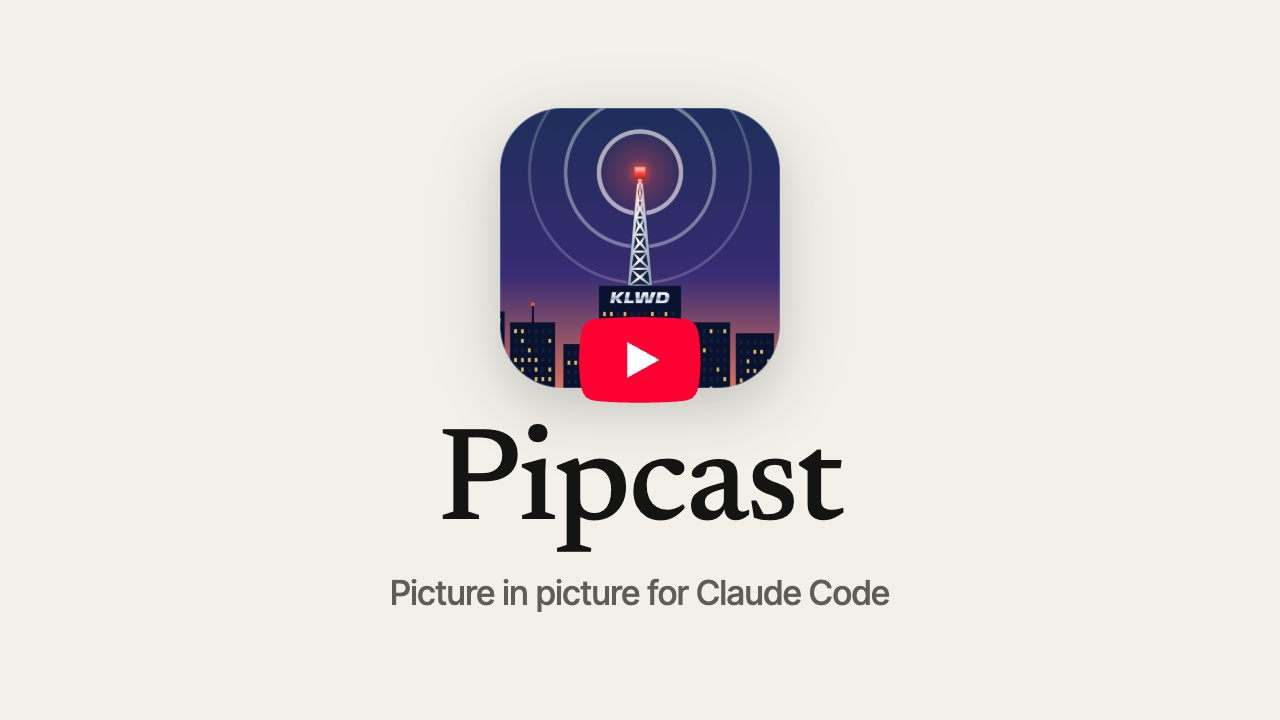
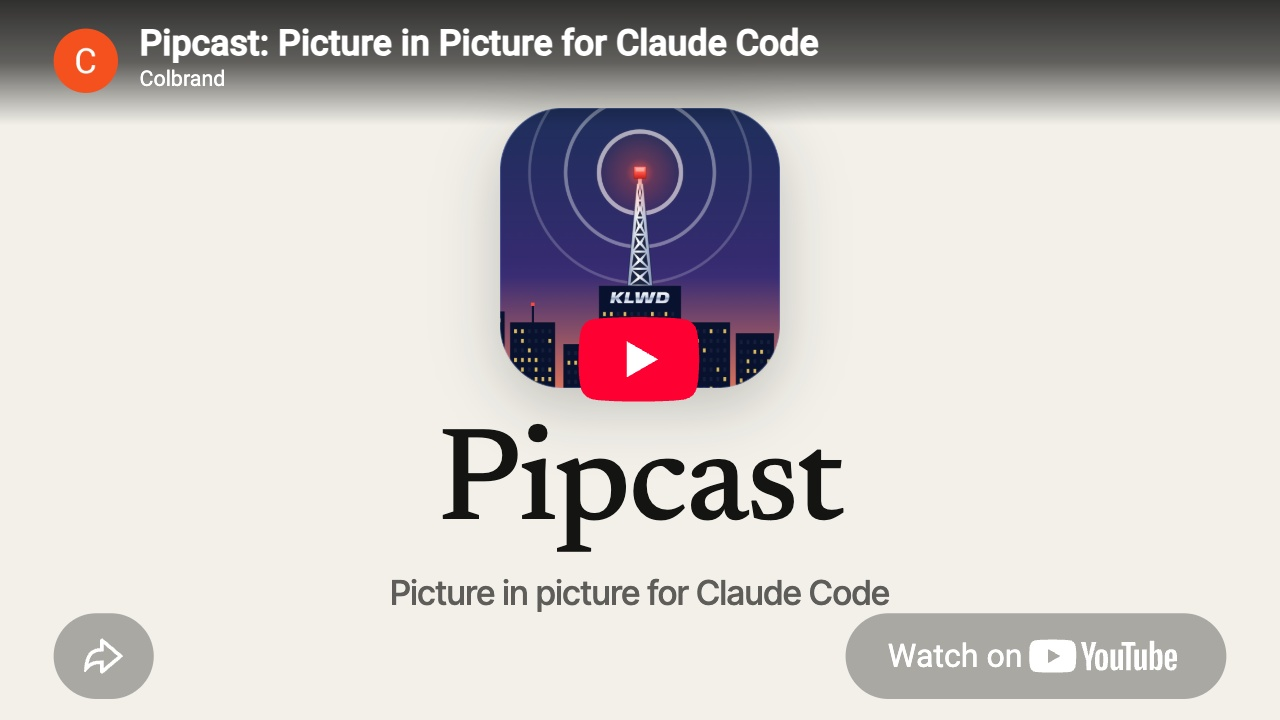
[FEAT]: the README's link to the video looks like YouTube's embedded player, with the player's own title bar, play button and buttons

diff --git a/video/src/thumbnail/YouTubeOverlay.tsx b/video/src/thumbnail/YouTubeOverlay.tsx
@@ -1,0 +1,95 @@
+// YouTube's embedded player as it shows a video before it plays, drawn over
+// the thumbnail for the README, so the picture reads as a YouTube video at a
+// glance: the gradient and the title bar along the top, the play button in the
+// middle, and the share and Watch on YouTube buttons along the bottom, as a
+// visitor who isn't signed in sees them. The sizes, colours, fonts and icons
+// are the player's own, read from youtube.com/embed at 716 CSS pixels wide, the
+// width the README shows the picture at, and the whole layer is scaled to the
+// picture it covers.
+//
+// The title, the channel and the channel's picture are the video's on YouTube.
+// channel-avatar.png is the channel's picture, from
+// https://yt3.ggpht.com/ytc/AIdro_kh_x36_gLbuWEiCLxlpuWeem1FwkAG6L4N4muHqHo=s176-c-k-c0x00ffffff-no-rj
+// converted to PNG.
+import { loadFont as loadRoboto } from '@remotion/google-fonts/Roboto'
+import { Img } from 'remotion'
+import avatar from './channel-avatar.png'
+
+/** The player loads Roboto in these two weights only, so the title's bold is drawn from 500, as in the player */
+const ROBOTO = loadRoboto('normal', { weights: ['400', '500'], subsets: ['latin'] }).fontFamily
+
+/** The width README.md shows the picture at, in CSS pixels: its img's width="716". Change the two together. */
+export const README_W = 716
+
+const TITLE = 'Pipcast: Picture in Picture for Claude Code'
+const CHANNEL = 'Colbrand'
+
+const WHITE = '#fff'
+/** The play button's red */
+const RED = '#ff0033'
+/** The shade behind the share and Watch on YouTube buttons */
+const SHADE = 'rgba(0, 0, 0, 0.3)'
+
+const PLAY =
+  'M63 14.87a7.885 7.885 0 00-5.56-5.56C52.54 8 32.88 8 32.88 8S13.23 8 8.32 9.31c-2.7.72-4.83 2.85-5.56 5.56C1.45 19.77 1.45 30 1.45 30s0 10.23 1.31 15.13c.72 2.7 2.85 4.83 5.56 5.56C13.23 52 32.88 52 32.88 52s19.66 0 24.56-1.31c2.7-.72 4.83-2.85 5.56-5.56C64.31 40.23 64.31 30 64.31 30s0-10.23-1.31-15.13z'
+const PLAY_ARROW = 'M26.6 39.43L42.93 30 26.6 20.57z'
+const SHARE =
+  'M10 3.158V7.51c-5.428.223-8.27 3.75-8.875 11.199-.04.487-.07.975-.09 1.464l-.014.395c-.014.473.578.684.88.32.302-.368.61-.73.925-1.086l.244-.273c1.79-1.967 3-2.677 4.93-2.917a18.011 18.011 0 012-.112v4.346a1 1 0 001.646.763l9.805-8.297 1.55-1.31-1.55-1.31-9.805-8.297A1 1 0 0010 3.158Zm2 6.27v.002-4.116l7.904 6.688L12 18.689v-4.212l-2.023.024c-1.935.022-3.587.17-5.197 1.024a9 9 0 00-1.348.893c.355-1.947.916-3.39 1.63-4.425 1.062-1.541 2.607-2.385 5.02-2.485L12 9.428Z'
+const LOGO =
+  'M 16.687006,0.99998524 C 13.551069,1.0327972 7.0245114,1.1624852 4.9995126,1.6874852 c -1.4999991,0.4 -2.5999984,1.6 -2.9999982,3 -0.6999995,2.7 -0.6874995,8.3124998 -0.6874995,8.3124998 0,0 -0.0125,5.6125 0.6874995,8.3125 0.3999998,1.5 1.5999991,2.6 2.9999982,3 2.6999984,0.7 13.4062424,0.6875 13.4062424,0.6875 0,0 10.706243,0.0125 13.406241,-0.6875 1.5,-0.4 2.599999,-1.6 2.999999,-3 0.699999,-2.7 0.687499,-8.3125 0.687499,-8.3125 0,0 0.1125,-5.6124998 -0.687499,-8.3124998 -0.4,-1.5 -1.599999,-2.6 -2.999999,-3 C 29.111998,0.98748524 18.405755,0.99998524 18.405755,0.99998524 c 0,0 -0.673437,-0.010938 -1.718749,0 z m 72.218706,0.90624996 0,21.2812498 2.781248,0 0.3125,-1.375 0.09375,0 c 0.3,0.5 0.71875,0.8875 1.218749,1.1875 0.5,0.3 1.0875,0.40625 1.687499,0.40625 1.1,0 1.999999,-0.49375 2.499999,-1.59375 0.5,-1.1 0.812499,-2.70625 0.812499,-4.90625 l 0,-2.40625 c 0,-1.6 -0.1125,-2.90625 -0.312499,-3.90625 -0.2,-0.8999999 -0.5,-1.5937499 -1,-2.0937499 -0.5,-0.4 -1.106249,-0.5937499 -1.906249,-0.5937499 -0.599999,0 -1.187499,0.1999999 -1.687499,0.4999999 -0.499999,0.3 -1.018749,0.80625 -1.218749,1.40625 l 0,-7.9062499 -3.281248,0 z m -49.99997,0.78125 3.906248,13.9062498 0.1875,6.71875 3.312498,0 0,-6.71875 3.874997,-13.9062498 -3.374998,0 -1.406249,6.3124999 c -0.4,1.8999999 -0.712499,3.1999999 -0.812499,3.9999999 l -0.09375,0 c -0.2,-1.1 -0.5125,-2.4 -0.8125,-3.9999999 l -1.374999,-6.3124999 -3.406248,0 z m 29.593732,0 0,2.71875 3.406248,0 0,17.9062498 3.281248,0 0,-17.9062498 3.406248,0 c 0,0 0.0062,-2.71875 -0.09375,-2.71875 l -9.999994,0 z m -53.499967,5.125 8.906244,5.1874998 -8.906244,5.09375 0,-10.2812498 z m 89.406193,0.09375 c -1.7,0 -2.89375,0.5937499 -3.59375,1.5937499 -0.69999,0.9999999 -0.999995,2.6062499 -0.999995,4.9062499 l 0,2.59375 c 0,2.2 0.300005,3.90625 0.999995,4.90625 0.7,1.1 1.8,1.59375 3.5,1.59375 1.4,0 2.3875,-0.3 3.1875,-1 0.7,-0.7 1.09375,-1.69375 1.09375,-3.09375 l 0,-0.5 -2.90625,-0.21875 c 0,1 -0.0812,1.6 -0.28125,2 -0.1,0.4 -0.5,0.625 -1,0.625 -0.3,0 -0.6125,-0.1125 -0.8125,-0.3125 -0.2,-0.3 -0.30625,-0.59375 -0.40625,-1.09375 -0.1,-0.5 -0.0937,-1.21875 -0.0937,-2.21875 l 0,-0.78125 5.71875,-0.09375 0,-2.625 c 0,-1.6 -0.10625,-2.7875 -0.40625,-3.6875 -0.2,-0.8999999 -0.7125,-1.5999999 -1.3125,-1.9999999 -0.7,-0.4 -1.4875,-0.5937499 -2.6875,-0.5937499 z m -50.499967,0.09375 c -1.099999,0 -2.018749,0.1874999 -2.718748,0.6874999 -0.7,0.4 -1.2,1.125 -1.499999,2.1249999 -0.3,1 -0.5,2.275 -0.5,3.875 l 0,2.21875 c 0,1.5 0.10625,2.78125 0.40625,3.78125 0.2,0.9 0.706249,1.625 1.406249,2.125 0.699999,0.5 1.712499,0.68125 2.812498,0.78125 1.199999,0 2.081249,-0.2875 2.781249,-0.6875 0.699999,-0.4 1.099999,-1.09375 1.499999,-2.09375 0.399999,-1 0.499999,-2.30625 0.499999,-3.90625 l 0,-2.21875 c 0,-1.6 -0.2,-2.875 -0.499999,-3.875 -0.3,-0.8999999 -0.8,-1.6249999 -1.499999,-2.1249999 -0.7,-0.5 -1.5875,-0.6874999 -2.687499,-0.6874999 z m 12.187493,0.09375 0,11.9062498 c -0.1,0.3 -0.29375,0.4875 -0.59375,0.6875 -0.2,0.2 -0.5125,0.3125 -0.812499,0.3125 -0.3,0 -0.5875,-0.10625 -0.6875,-0.40625 -0.1,-0.3 -0.1875,-0.70625 -0.1875,-1.40625 l 0,-10.9999998 -3.406248,0 0,11.2187498 c 0,1.4 0.1875,2.39375 0.6875,3.09375 0.499999,0.7 1.218749,1 2.218748,1 1.4,0 2.487499,-0.69375 3.187499,-2.09375 l 0.09375,0 0.3125,1.78125 2.593749,0 0,-14.9999998 c 0,0 -3.406248,0.0062 -3.406248,-0.09375 z m 17.312489,0 0,11.9062498 c -0.1,0.3 -0.293749,0.4875 -0.593749,0.6875 -0.2,0.2 -0.5125,0.3125 -0.8125,0.3125 -0.3,0 -0.587499,-0.10625 -0.687499,-0.40625 -0.1,-0.3 -0.21875,-0.70625 -0.21875,-1.40625 l 0,-10.9999998 -3.406248,0 0,11.2187498 c 0,1.4 0.21875,2.39375 0.718749,3.09375 0.5,0.7 1.1875,1 2.187499,1 1.399999,0 2.518749,-0.69375 3.218748,-2.09375 l 0.09375,0 0.28125,1.78125 2.624998,0 0,-14.9999998 c 0,0 -3.406248,0.0062 -3.406248,-0.09375 z m 20.906235,2.0937498 c 0.4,0 0.58125,0.1125 0.78125,0.3125 0.2,0.3 0.30625,0.59375 0.40625,1.09375 0.1,0.5 0.0937,1.21875 0.0937,2.21875 l 0,1.09375 -2.5,0 0,-1.09375 c 0,-1 -0.006,-1.71875 0.0937,-2.21875 0,-0.4 0.1125,-0.8 0.3125,-1 0.2,-0.3 0.5125,-0.40625 0.8125,-0.40625 z m -50.499967,0.125 c 0.5,0 0.8,0.1875 1,0.6875 0.199999,0.5 0.281249,1.30625 0.281249,2.40625 l 0,4.6875 c 0,1.1 -0.08125,1.90625 -0.281249,2.40625 -0.2,0.5 -0.5,0.6875 -1,0.6875 -0.5,0 -0.799999,-0.1875 -0.999999,-0.6875 -0.2,-0.5 -0.3125,-1.30625 -0.3125,-2.40625 l 0,-4.6875 c 0,-1.1 0.1125,-1.90625 0.3125,-2.40625 0.2,-0.5 0.499999,-0.6875 0.999999,-0.6875 z m 39.687476,0.09375 c 0.3,0 0.6125,0.10625 0.8125,0.40625 0.2,0.3 0.275,0.675 0.375,1.375 0.1,0.6 0.124999,1.51875 0.124999,2.71875 l 0.09375,1.90625 c 0,1.1 0.0062,1.99375 -0.09375,2.59375 -0.1,0.6 -0.199999,1.08125 -0.499999,1.28125 -0.2,0.3 -0.50625,0.40625 -0.90625,0.40625 -0.3,0 -0.512499,-0.0875 -0.812499,-0.1875 -0.2,-0.1 -0.39375,-0.29375 -0.59375,-0.59375 l 0,-8.5 c 0.1,-0.4 0.29375,-0.7 0.59375,-1 0.3,-0.3 0.606249,-0.40625 0.906249,-0.40625 z'
+
+/** YouTube's player over a picture of the given size, which it covers */
+export function YouTubeOverlay({ width, height }: { width: number; height: number }) {
+  const scale = width / README_W
+  const playerH = height / scale
+  return (
+    <div
+      style={{
+        position: 'absolute',
+        left: 0,
+        top: 0,
+        width: README_W,
+        height: playerH,
+        transform: `scale(${scale})`,
+        transformOrigin: '0 0',
+        fontFamily: ROBOTO,
+        color: WHITE,
+      }}
+    >
+      <div
+        style={{
+          position: 'absolute',
+          left: 0,
+          top: 0,
+          width: README_W,
+          height: 70,
+          background: 'linear-gradient(rgba(0, 0, 0, 0.8), rgba(0, 0, 0, 0.6), rgba(0, 0, 0, 0))',
+        }}
+      />
+      <Img src={avatar} style={{ position: 'absolute', left: 30, top: 16, width: 36, height: 36, borderRadius: '50%' }} />
+      <div style={{ position: 'absolute', left: 78, top: 10, fontSize: 20, fontWeight: 700, lineHeight: '28px', whiteSpace: 'nowrap' }}>
+        {TITLE}
+      </div>
+      <div style={{ position: 'absolute', left: 78, top: 38, fontSize: 12, fontWeight: 400, lineHeight: '13.2px', whiteSpace: 'nowrap' }}>
+        {CHANNEL}
+      </div>
+      <svg viewBox="0 0 67 60" style={{ position: 'absolute', left: (README_W - 72) / 2, top: (playerH - 72) / 2, width: 72, height: 72 }}>
+        <path d={PLAY} fill={RED} />
+        <path d={PLAY_ARROW} fill={WHITE} />
+      </svg>
+      <div style={{ position: 'absolute', left: 30, bottom: 12, width: 56, height: 48, borderRadius: 48, background: SHADE }}>
+        <svg viewBox="0 0 24 24" style={{ position: 'absolute', left: 16, top: 12, width: 24, height: 24 }}>
+          <path d={SHARE} fill={WHITE} />
+        </svg>
+      </div>
+      <div style={{ position: 'absolute', right: 30, bottom: 12, width: 213.367, height: 48, borderRadius: 24, background: SHADE }}>
+        <div style={{ position: 'absolute', left: 24, top: 0, fontSize: 18, fontWeight: 400, lineHeight: '48px', whiteSpace: 'nowrap' }}>
+          Watch on
+        </div>
+        <svg viewBox="0 0 110 26" style={{ position: 'absolute', left: 99.367, top: 14, width: 90, height: 20 }}>
+          <path d={LOGO} fill={WHITE} />
+        </svg>
+      </div>
+    </div>
+  )
+}

diff --git a/video/src/thumbnail/Thumbnail.tsx b/video/src/thumbnail/Thumbnail.tsx
@@ -1,10 +1,11 @@
 // The video's YouTube thumbnail: the icon, the name in the serif and the line
 // under it, centred on the paper. scripts/thumbnail.mjs renders it into
 // assets/youtube-thumbnail.jpg at the repository's root, and the same picture
-// with YouTube's play button on it into assets/youtube-thumbnail-play.jpg,
+// as YouTube's embedded player shows it into assets/youtube-thumbnail-play.jpg,
 // which the README shows as its link to the video.
 import icon from '../../../assets/icon-1024.png'
 import { INK, INK_SOFT, PAPER, SANS, SERIF } from '../look/theme.ts'
+import { YouTubeOverlay } from './YouTubeOverlay.tsx'
 
 /** YouTube's thumbnail size */
 export const THUMBNAIL_W = 1280
@@ -34,42 +35,12 @@ export function Thumbnail() {
   )
 }
 
-/** The width README.md shows the picture at, in CSS pixels: its img's width="716". Change the two together. */
-const README_W = 716
-
-// YouTube's large play button as its player draws it: the path, the red and the
-// white triangle are the player's own, and it measures 68 by 48 at the README's
-// width, as the player's button does, in the middle of the picture.
-const PLAY_W = (68 * THUMBNAIL_W) / README_W
-const PLAY_H = (48 * THUMBNAIL_W) / README_W
-
-function YouTubePlayButton() {
-  return (
-    <svg
-      viewBox="0 0 68 48"
-      style={{
-        position: 'absolute',
-        left: (THUMBNAIL_W - PLAY_W) / 2,
-        top: (THUMBNAIL_H - PLAY_H) / 2,
-        width: PLAY_W,
-        height: PLAY_H,
-      }}
-    >
-      <path
-        d="M66.52,7.74c-0.78-2.93-2.49-5.41-5.42-6.19C55.79,.13,34,0,34,0S12.21,.13,6.9,1.55 C3.97,2.33,2.27,4.81,1.48,7.74C0.06,13.05,0,24,0,24s0.06,10.95,1.48,16.26c0.78,2.93,2.49,5.41,5.42,6.19 C12.21,47.87,34,48,34,48s21.79-0.13,27.1-1.55c2.93-0.78,4.64-3.26,5.42-6.19C67.94,34.95,68,24,68,24S67.94,13.05,66.52,7.74z"
-        fill="#ff0033"
-      />
-      <path d="M 45,24 27,14 27,34" fill="#fff" />
-    </svg>
-  )
-}
-
-/** The thumbnail with YouTube's play button on it, for the README */
+/** The thumbnail as YouTube's embedded player shows it, for the README */
 export function ThumbnailPlay() {
   return (
     <div style={{ position: 'relative', width: THUMBNAIL_W, height: THUMBNAIL_H }}>
       <Thumbnail />
-      <YouTubePlayButton />
+      <YouTubeOverlay width={THUMBNAIL_W} height={THUMBNAIL_H} />
     </div>
   )
 }

diff --git a/video/README.md b/video/README.md
@@ -27,4 +27,4 @@ opens Remotion Studio. `npm run render` renders the video to `out/pipcast.mp4`, 
 - `scripts/prepare.mjs` runs before the studio and every render: it copies the design system's stylesheet without its Google Fonts import, copies the icon's layers as markup, renders the soundtrack in Chrome when its score changed, and lays the beat when its loops or where it plays changed. What it makes is in `src/generated` and `public/audio`, which are not committed.
 - `scripts/stills.mjs <composition> <dir> <seconds...>` renders single frames, for checking a change without rendering the video.
 - `src/readme` lays out the README's three grids of screenshots from the same pieces, as the video's boards are laid out: moments of the desktop scene, two states the video only passes through (the window's controls on hover, and the transparent window), and KLWD's pictures in its window. `npm run readme` renders them into `assets/screenshots` at the repository's root. It runs `scripts/prepare.mjs --picture` first, which stops before the soundtrack and the beat, since a still has no sound.
-- `src/thumbnail` is the video's YouTube thumbnail: the icon, the name in the serif and the line under it, centred on the paper. `npm run thumbnail` renders it into `assets/youtube-thumbnail.jpg` at the repository's root, after `scripts/prepare.mjs --picture` as for the README's screenshots. It also renders `assets/youtube-thumbnail-play.jpg`, the same picture with YouTube's play button in the middle, which the README shows at its top as its link to the video. The button is the one YouTube's player draws, with the player's own path and red, at the size the player draws it for the width the README shows the picture at.
+- `src/thumbnail` is the video's YouTube thumbnail: the icon, the name in the serif and the line under it, centred on the paper. `npm run thumbnail` renders it into `assets/youtube-thumbnail.jpg` at the repository's root, after `scripts/prepare.mjs --picture` as for the README's screenshots. It also renders `assets/youtube-thumbnail-play.jpg`, the same picture as YouTube's embedded player shows it before it plays, which the README shows at its top as its link to the video. `YouTubeOverlay.tsx` draws the player over it: the gradient and title bar, the play button, and the share and Watch on YouTube buttons, as a visitor who isn't signed in sees them, with the player's own sizes, colours, fonts and icons, read from youtube.com/embed at the width the README shows the picture at. Its title, its channel and `channel-avatar.png`, the channel's picture, are the video's on YouTube.

diff --git a/docs/development.md b/docs/development.md
@@ -219,7 +219,7 @@ npm --prefix video run studio
 
 opens it in Remotion Studio, rendering the soundtrack first if its score changed. `npm --prefix video run render` renders it to `video/out/pipcast.mp4`, and `render:4k` at twice the size; `video/out/` is not committed.
 
-The video is on YouTube at https://youtu.be/WZc3zm6nB9g, with `assets/youtube-thumbnail.jpg` as its thumbnail; `video/README.md` says how each is rendered. The README's link to the video, at its top, is that thumbnail with YouTube's play button on it, `assets/youtube-thumbnail-play.jpg`, which `npm --prefix video run thumbnail` renders with the thumbnail. The plugin's README, `packages/mod/README.md`, links to the video under its introduction, with its length. When a new cut of the video goes up, change its link in both READMEs, and its length in the plugin's README.
+The video is on YouTube at https://youtu.be/WZc3zm6nB9g, with `assets/youtube-thumbnail.jpg` as its thumbnail; `video/README.md` says how each is rendered. The README's link to the video, at its top, is that thumbnail as YouTube's embedded player shows it, title bar, play button and all, `assets/youtube-thumbnail-play.jpg`, which `npm --prefix video run thumbnail` renders with the thumbnail. The plugin's README, `packages/mod/README.md`, links to the video under its introduction, with its length. When a new cut of the video goes up, change its link in both READMEs and its length in the plugin's README. The picture copies what YouTube shows, so when the video's title, its channel's name or picture, or YouTube's player changes, change `video/src/thumbnail/YouTubeOverlay.tsx` and `channel-avatar.png` beside it to match, and render the picture again.
 
 ## README screenshots
 
